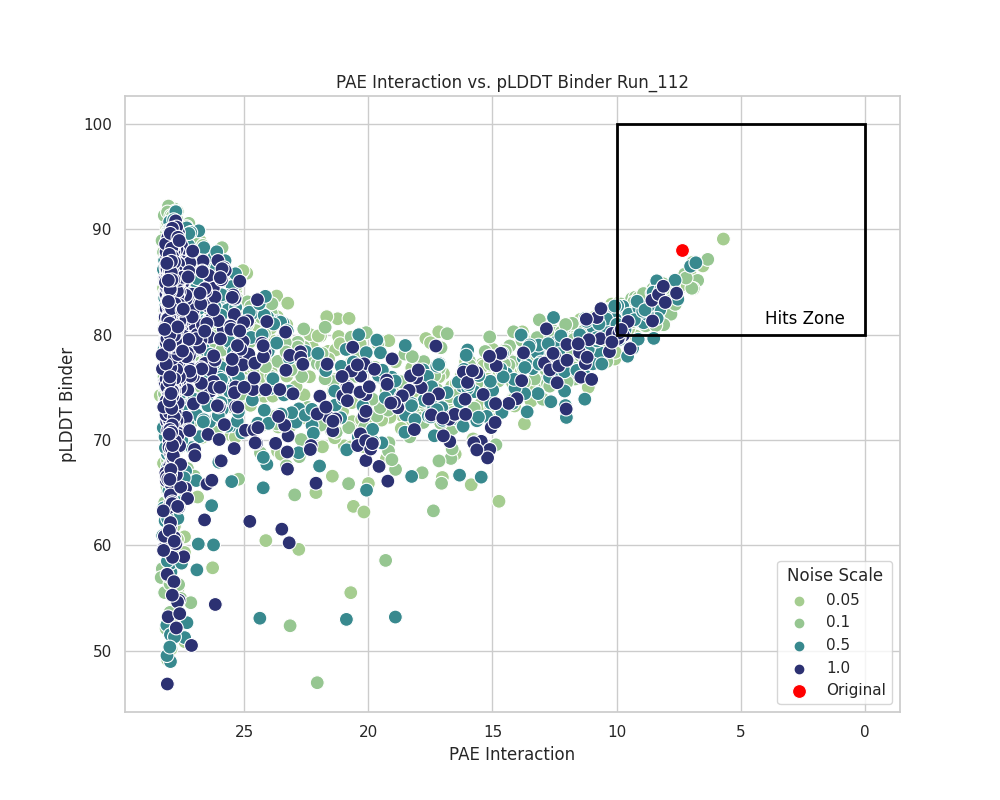
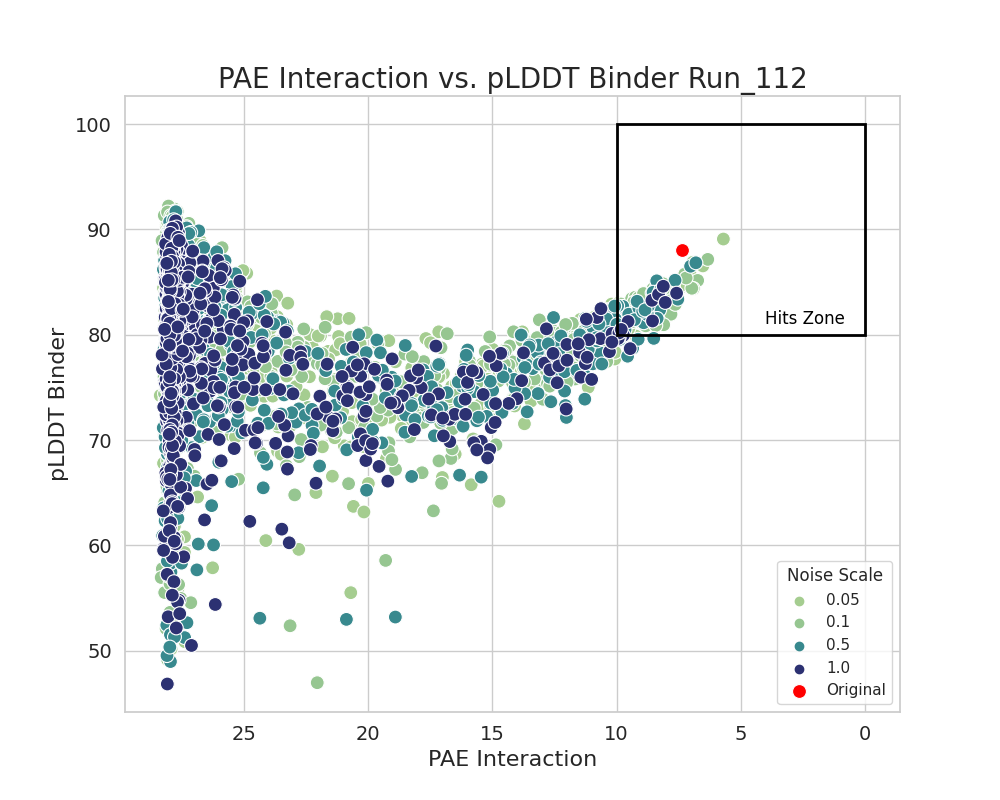
figures

diff --git a/Statistical_Analysis/stat_test_noisescale.py b/Statistical_Analysis/stat_test_noisescale.py
@@ -16,47 +16,47 @@ pae_interaction_ns01=df_filtered['pae_interaction'][(df_filtered['pae_interactio
 pae_interaction_ns05=df_filtered['pae_interaction'][(df_filtered['pae_interaction'] < 10) & (df_filtered['Noise']=='05')]
 pae_interaction_ns1=df_filtered['pae_interaction'][(df_filtered['pae_interaction'] < 10) & (df_filtered['Noise']=='1')]
 
-bonferroni_correction=0.05/6
+threshold=0.05
 
 # T-Test for pae_interaction
 t_stat, p_value = ttest_ind(pae_interaction_ns005, pae_interaction_ns01, equal_var=False)
-print(f'T-Test for pae_interaction between 005 and 01 noise scale: t-stat = {t_stat}, p-value = {p_value}')
-if p_value < bonferroni_correction:
+print(f'T-Test for pae_interaction between 005 and 01 noise scale: t-stat = {t_stat}, p-value = {p_value*6}')
+if p_value < threshold:
     print('########\n')
     print('This difference is significant\n')
     print('#########\n')
 # T-Test for pae_interaction
 t_stat, p_value = ttest_ind(pae_interaction_ns005, pae_interaction_ns05, equal_var=False)
-print(f'T-Test for pae_interaction between 005 and 05 noise scale: t-stat = {t_stat}, p-value = {p_value}')
-if p_value < bonferroni_correction:
+print(f'T-Test for pae_interaction between 005 and 05 noise scale: t-stat = {t_stat}, p-value = {p_value*6}')
+if p_value < threshold:
     print('########\n')
     print('This difference is significant\n')
     print('#########\n')
 # T-Test for pae_interaction
 t_stat, p_value = ttest_ind(pae_interaction_ns005, pae_interaction_ns1, equal_var=False)
-print(f'T-Test for pae_interaction between 005 and 1 noise scale: t-stat = {t_stat}, p-value = {p_value}')
-if p_value < bonferroni_correction:
+print(f'T-Test for pae_interaction between 005 and 1 noise scale: t-stat = {t_stat}, p-value = {p_value*6}')
+if p_value < threshold:
     print('########\n')
     print('This difference is significant\n')
     print('#########\n')
 # T-Test for pae_interaction
 t_stat, p_value = ttest_ind(pae_interaction_ns01, pae_interaction_ns05, equal_var=False)
-print(f'T-Test for pae_interaction between 01 and 05 noise scale: t-stat = {t_stat}, p-value = {p_value}')
-if p_value < bonferroni_correction:
+print(f'T-Test for pae_interaction between 01 and 05 noise scale: t-stat = {t_stat}, p-value = {p_value*6}')
+if p_value < threshold:
     print('########\n')
     print('This difference is significant\n')
     print('#########\n')
 # T-Test for pae_interaction
 t_stat, p_value = ttest_ind(pae_interaction_ns01, pae_interaction_ns1, equal_var=False)
-print(f'T-Test for pae_interaction between 01 and 1 noise scale: t-stat = {t_stat}, p-value = {p_value}')
-if p_value < bonferroni_correction:
+print(f'T-Test for pae_interaction between 01 and 1 noise scale: t-stat = {t_stat}, p-value = {p_value*6}')
+if p_value < threshold:
     print('########\n')
     print('This difference is significant\n')
     print('#########\n')
 # T-Test for pae_interaction
 t_stat, p_value = ttest_ind(pae_interaction_ns1, pae_interaction_ns05, equal_var=False)
-print(f'T-Test for pae_interaction between 05 and 1 noise scale: t-stat = {t_stat}, p-value = {p_value}')
-if p_value < bonferroni_correction:
+print(f'T-Test for pae_interaction between 05 and 1 noise scale: t-stat = {t_stat}, p-value = {p_value*6}')
+if p_value < threshold:
     print('########\n')
     print('This difference is significant\n')
     print('#########\n')
@@ -81,8 +81,8 @@ observed = [[positives_005ns, total_005ns - positives_005ns], [positives_01ns, t
 chi2, p, _, _ = chi2_contingency(observed)
 
 print("Chi-square statistic between 005 and 01 ns:", chi2)
-print("P-value between 005 and 01 ns:", p)
-if p < bonferroni_correction:
+print("P-value between 005 and 01 ns:", p*6)
+if p*6 < threshold:
     print('########\n')
     print('This difference is significant\n')
     print('#########\n')
@@ -93,8 +93,8 @@ observed = [[positives_05ns, total_05ns - positives_05ns], [positives_005ns, tot
 chi2, p, _, _ = chi2_contingency(observed)
 
 print("Chi-square statistic between 005 and 05:", chi2)
-print("P-value between 005 and 05:", p)
-if p < bonferroni_correction:
+print("P-value between 005 and 05:", p*6)
+if p*6 < threshold:
     print('########\n')
     print('This difference is significant\n')
     print('#########\n')
@@ -105,8 +105,8 @@ observed = [[positives_1ns, total_1ns - positives_1ns], [positives_005ns, total_
 chi2, p, _, _ = chi2_contingency(observed)
 
 print("Chi-square statistic between 005 and 1:", chi2)
-print("P-value between 005 and 1:", p)
-if p < bonferroni_correction:
+print("P-value between 005 and 1:", p*6)
+if p*6 < threshold:
     print('########\n')
     print('This difference is significant\n')
     print('#########\n')
@@ -117,8 +117,8 @@ observed = [[positives_1ns, total_1ns - positives_1ns], [positives_01ns, total_0
 chi2, p, _, _ = chi2_contingency(observed)
 
 print("Chi-square statistic between 01 and 1:", chi2)
-print("P-value between 01 and 1:", p)
-if p < bonferroni_correction:
+print("P-value between 01 and 1:", p*6)
+if p*6 < threshold:
     print('########\n')
     print('This difference is significant\n')
     print('#########\n')
@@ -130,8 +130,8 @@ observed = [[positives_1ns, total_1ns - positives_1ns], [positives_05ns, total_0
 chi2, p, _, _ = chi2_contingency(observed)
 
 print("Chi-square statistic between 05 and 1:", chi2)
-print("P-value between 05 and 1:", p)
-if p < bonferroni_correction:
+print("P-value between 05 and 1:", p*6)
+if p*6 < threshold:
     print('########\n')
     print('This difference is significant\n')
     print('#########\n')
@@ -143,8 +143,8 @@ observed = [[positives_05ns, total_05ns - positives_05ns], [positives_01ns, tota
 chi2, p, _, _ = chi2_contingency(observed)
 
 print("Chi-square statistic between 01 and 05:", chi2)
-print("P-value between 01 and 05:", p)
-if p < bonferroni_correction:
+print("P-value between 01 and 05:", p*6)
+if p*6 < threshold:
     print('########\n')
     print('This difference is significant\n')
     print('#########\n')

diff --git a/FIGURES/Noise_Scale_figures.py b/FIGURES/Noise_Scale_figures.py
@@ -78,10 +78,13 @@ df_filtered_112.loc[df_filtered_112['Noise'] == '1', 'Noise'] = 1.0
 plt.figure(figsize=(12,10))
 sns.set_theme(style='whitegrid')
 sns.pointplot(data=df_filtered_112, x='Noise', y='RMSD', hue= 'Noise', palette='crest', s=100,capsize=0.2, ci=95 )
-plt.title('RMSD vs Noise Scale')
-plt.xlabel('Noise Scale (Arb.U)')
-plt.ylabel(f'RMSD ($\AA$)')
+plt.title('RMSD vs Noise Scale', fontsize=20)
+plt.xlabel('Noise Scale (Arb.U)', fontsize=16)
+plt.ylabel(f'RMSD ($\AA$)', fontsize=16)
 plt.legend(title='Noise Scale')
+plt.tick_params(axis='y', labelsize=14)
+plt.tick_params(axis='x', labelsize=14)
+
 plt.savefig('/home/cchacon/Carlos_scripts/FIGURES/Noise_Scale_RMSD.png')
 
 X=[0.05,0.1,0.5,1]
@@ -113,9 +116,12 @@ annotator.configure(
     comparisons_correction="bonferroni")
     
 annotator.apply_and_annotate()
-plt.title('RMSD vs Noise Scale')
-plt.ylabel(f'RMSD ($\AA$)')
-plt.xlabel('Noise Scale (Arb.U)')
+plt.title('RMSD vs Noise Scale', fontsize=20)
+plt.ylabel(f'RMSD ($\AA$)', fontsize=16)
+plt.xlabel('Noise Scale (Arb.U)', fontsize=16)
+plt.tick_params(axis='y', labelsize=14)
+plt.tick_params(axis='x', labelsize=14)
+
 plt.savefig('/home/cchacon/Carlos_scripts/FIGURES/violinplot_rmsd_noisescale.png')
 
 #df_filter hits
@@ -141,9 +147,11 @@ annotator.configure(
     comparisons_correction="bonferroni")
     
 annotator.apply_and_annotate()
-plt.title('Noise Scale vs Pae_interaction')
-plt.xlabel('Noise Scale (Arb.Units)')
-plt.ylabel(f'Pae_interaction ($\AA$)')
+plt.title('Noise Scale vs Pae_interaction', fontsize=20)
+plt.xlabel('Noise Scale (Arb.Units)', fontsize=16)
+plt.ylabel(f'Pae_interaction ($\AA$)', fontsize=16)
+plt.tick_params(axis='y', labelsize=14)
+plt.tick_params(axis='x', labelsize=14)
 
 plt.savefig('/home/cchacon/Carlos_scripts/FIGURES/violinplot_pae_interaction_noise_scale.png')
 
@@ -167,10 +175,11 @@ annotator.configure(
     comparisons_correction="bonferroni")
     
 annotator.apply_and_annotate()
-plt.title('Noise Scale vs pLDDT binder')
-plt.xlabel('Noise Scale (Arb.Units)')
-plt.ylabel(f'pLDDT binder (Arb.Units)')
-
+plt.title('Noise Scale vs pLDDT binder', fontsize=20)
+plt.xlabel('Noise Scale (Arb.Units)',fontsize=16)
+plt.ylabel(f'pLDDT binder (Arb.Units)', fontsize=16)
+plt.tick_params(axis='y', labelsize=14)
+plt.tick_params(axis='x', labelsize=14)
 plt.savefig('/home/cchacon/Carlos_scripts/FIGURES/violinplot_plddt_binder_noise_scale.png')
 
 
@@ -203,9 +212,12 @@ sns.scatterplot(data=df_filtered_112,x='pae_interaction',y='plddt_binder', hue='
 sns.scatterplot(data=df_original, x='pae_interaction', y='plddt_binder', color='red', s=100, edgecolors='k', label='Original')
 
 # Add titles and labels
-plt.title('PAE Interaction vs. pLDDT Binder Run_112')
-plt.xlabel('PAE Interaction')
-plt.ylabel('pLDDT Binder')
+plt.title('PAE Interaction vs. pLDDT Binder Run_112', fontsize=20)
+plt.xlabel('PAE Interaction', fontsize=16)
+plt.ylabel('pLDDT Binder', fontsize=16)
+plt.tick_params(axis='y', labelsize=14)
+plt.tick_params(axis='x', labelsize=14)
+
 
 # Highlight specific region with a square
 rect = patches.Rectangle((0, 80), 10, 20, linewidth=2, edgecolor='black', facecolor='none')
@@ -258,9 +270,11 @@ sns.scatterplot(data=df_filtered_264, x='pae_interaction', y='plddt_binder', hue
 sns.scatterplot(data=df_original, x='pae_interaction', y='plddt_binder', color='red', s=100, edgecolors='k', label='Original')
 
 # Add titles and labels
-plt.title('PAE Interaction vs. pLDDT Binder Run_264')
-plt.xlabel('PAE Interaction')
-plt.ylabel('pLDDT Binder')
+plt.title('PAE Interaction vs. pLDDT Binder Run_264', fontsize=20)
+plt.xlabel('PAE Interaction', fontsize=16)
+plt.ylabel('pLDDT Binder', fontsize=16)
+plt.tick_params(axis='y', labelsize=14)
+plt.tick_params(axis='x', labelsize=14)
 
 # Highlight specific region with a square
 rect = patches.Rectangle((0, 80), 10, 20, linewidth=2, edgecolor='black', facecolor='none')

diff --git a/Statistical_Analysis/stat_test_noisesteps_FR.py b/Statistical_Analysis/stat_test_noisesteps_FR.py
@@ -19,7 +19,7 @@ observed = [[positives_FR, total_FR - positives_FR], [positives_no_FR, total_no_
 chi2, p, _, _ = chi2_contingency(observed)
 
 print("Chi-square statistic:", chi2)
-print("P-value:", p)
+print("P-value:", p*6)
 
 
 # Data
@@ -41,8 +41,6 @@ pae_interaction_ns5=df['pae_interaction'][(df['pae_interaction'] < 15) & (df['ca
 pae_interaction_ns10=df['pae_interaction'][(df['pae_interaction'] < 15) & (df['campaign']=='campaign_run_112_ns10')]
 pae_interaction_ns20=df['pae_interaction'][(df['pae_interaction'] < 15) & (df['campaign']=='campaign_run_112_ns20')]
 pae_interaction_ns30=df['pae_interaction'][(df['pae_interaction'] < 15) & (df['campaign']=='campaign_run_112_ns30')]
-
-bonferroni_correction=0.05/6
 # T-Test for pae_interaction
 t_stat, p_value = ttest_ind(pae_interaction_ns5, pae_interaction_ns10, equal_var=False)
 print(f'T-Test for pae_interaction between 5 and 10 noise steps: t-stat = {t_stat}, p-value = {p_value}')
@@ -82,8 +80,8 @@ observed = [[positives_5ns, total_5ns - positives_5ns], [positives_10ns, total_1
 chi2, p, _, _ = chi2_contingency(observed)
 
 print("Chi-square statistic between 5 and 10 ns:", chi2)
-print("P-value between 5 and 10 ns:", p)
-if p < bonferroni_correction:
+print("P-value between 5 and 10 ns:", p*6)
+if p*6 < 0.05:
     print('########\n')
     print('This difference is significant\n')
     print('#########\n')
@@ -95,8 +93,8 @@ observed = [[positives_20ns, total_20ns - positives_20ns], [positives_5ns, total
 chi2, p, _, _ = chi2_contingency(observed)
 
 print("Chi-square statistic between 5 and 20:", chi2)
-print("P-value between 5 and 20:", p)
-if p < bonferroni_correction:
+print("P-value between 5 and 20:", p*6)
+if p*6 < 0.05:
     print('########\n')
     print('This difference is significant\n')
     print('#########\n')
@@ -107,8 +105,8 @@ observed = [[positives_30ns, total_30ns - positives_30ns], [positives_5ns, total
 chi2, p, _, _ = chi2_contingency(observed)
 
 print("Chi-square statistic between 5 and 30:", chi2)
-print("P-value between 5 and 30:", p)
-if p < bonferroni_correction:
+print("P-value between 5 and 30:", p*6)
+if p*6 < 0.05:
     print('########\n')
     print('This difference is significant\n')
     print('#########\n')
@@ -119,8 +117,8 @@ observed = [[positives_30ns, total_30ns - positives_30ns], [positives_10ns, tota
 chi2, p, _, _ = chi2_contingency(observed)
 
 print("Chi-square statistic between 10 and 30:", chi2)
-print("P-value between 10 and 30:", p)
-if p < bonferroni_correction:
+print("P-value between 10 and 30:", p*6)
+if p*6 < 0.05:
     print('########\n')
     print('This difference is significant\n')
     print('#########\n')
@@ -132,8 +130,8 @@ observed = [[positives_30ns, total_30ns - positives_30ns], [positives_20ns, tota
 chi2, p, _, _ = chi2_contingency(observed)
 
 print("Chi-square statistic between 20 and 30:", chi2)
-print("P-value between 20 and 30:", p)
-if p < bonferroni_correction:
+print("P-value between 20 and 30:", p*6)
+if p*6 < 0.05:
     print('########\n')
     print('This difference is significant\n')
     print('#########\n')
@@ -144,8 +142,8 @@ observed = [[positives_20ns, total_20ns - positives_20ns], [positives_10ns, tota
 chi2, p, _, _ = chi2_contingency(observed)
 
 print("Chi-square statistic between 10 and 20:", chi2)
-print("P-value between 10 and 20:", p)
-if p < bonferroni_correction:
+print("P-value between 10 and 20:", p*6)
+if p*6 < 0.05:
     print('########\n')
     print('This difference is significant\n')
     print('#########\n')

diff --git a/FIGURES/Figure_noise_steps.py b/FIGURES/Figure_noise_steps.py
@@ -74,9 +74,11 @@ sns.pointplot(data=df_filtered, x='Noise', y='RMSD', hue= 'Noise', palette='cres
 
 # Plot the regression line
 # sns.lineplot(x=X, y=y_pred, label=f'$r$={r_value:.2f}', color='red', ax=ax) ##Doesn't work##
-plt.title('RMSD vs Noise Steps')
-plt.xlabel('Noise Steps (#)')
-plt.ylabel(f'RMSD ($\AA$)')
+plt.title('RMSD vs Noise Steps', fontsize=20)
+plt.xlabel('Noise Steps (#)', fontsize=16)
+plt.ylabel(f'RMSD ($\AA$)', fontsize=16)
+plt.tick_params(axis='y', labelsize=14)
+plt.tick_params(axis='x', labelsize=14)
 plt.legend(title='Noise Steps')
 plt.savefig('/home/cchacon/Carlos_scripts/FIGURES/NoiseStepsRMSD.png')
 
@@ -101,9 +103,12 @@ annotator.configure(
     comparisons_correction="bonferroni")
     
 annotator.apply_and_annotate()
-plt.title('RMSD vs Noise Steps')
-plt.ylabel(f'RMSD ($\AA$)')
-plt.xlabel('Noise Steps(#)')
+plt.title('RMSD vs Noise Steps', fontsize=20)
+plt.ylabel(f'RMSD ($\AA$)', fontsize=16)
+plt.xlabel('Noise Steps(#)', fontsize=16)
+plt.tick_params(axis='y', labelsize=14)
+plt.tick_params(axis='x', labelsize=14)
+
 plt.savefig('/home/cchacon/Carlos_scripts/FIGURES/violinplot_rmsd_noisesteps.png')
 
 #df_filter hits
@@ -131,9 +136,12 @@ annotator.configure(
     comparisons_correction="bonferroni")
     
 annotator.apply_and_annotate()
-plt.title('Noise Steps vs Pae_interaction')
-plt.xlabel('Noise Steps (#)')
-plt.ylabel(f'Pae_interaction ($\AA$)')
+plt.title('Noise Steps vs Pae_interaction', fontsize=20)
+plt.xlabel('Noise Steps (#)', fontsize=16)
+plt.ylabel(f'Pae_interaction ($\AA$)', fontsize=16)
+plt.tick_params(axis='y', labelsize=14)
+plt.tick_params(axis='x', labelsize=14)
+
 
 plt.savefig('/home/cchacon/Carlos_scripts/FIGURES/violinplot_pae_interaction_noise_steps.png')
 
@@ -159,9 +167,12 @@ annotator.configure(
     comparisons_correction="bonferroni")
     
 annotator.apply_and_annotate()
-plt.title('Noise Steps vs Pae_interaction')
-plt.xlabel('Noise Steps (#)')
-plt.ylabel(f'pLDDT binder (Arb.Units)')
+plt.title('Noise Steps vs Pae_interaction', fontsize=20)
+plt.xlabel('Noise Steps (#)', fontsize=16)
+plt.ylabel(f'pLDDT binder (Arb.Units)', fontsize=16)
+plt.tick_params(axis='y', labelsize=14)
+plt.tick_params(axis='x', labelsize=14)
+
 
 plt.savefig('/home/cchacon/Carlos_scripts/FIGURES/violinplot_plddt_binder_noise_steps.png')
 
@@ -195,9 +206,12 @@ sns.scatterplot(data=df_filtered, x='plddt_binder', y='pae_interaction', hue='No
 sns.scatterplot(data=df_original, x='plddt_binder', y='pae_interaction', color='red', s=100, label='Original')
 
 # Add titles and labels
-plt.title('PAE Interaction vs. pLDDT Binder run_264')
-plt.xlabel('PAE Interaction')
-plt.ylabel('pLDDT Binder')
+plt.title('PAE Interaction vs. pLDDT Binder run_264', fontsize=20)
+plt.xlabel('PAE Interaction', fontsize=16)
+plt.ylabel('pLDDT Binder', fontsize=16)
+plt.tick_params(axis='y', labelsize=14)
+plt.tick_params(axis='x', labelsize=14)
+
 
 # Highlight specific region with a square
 rect = patches.Rectangle((0, 80), 10, 20, linewidth=2, edgecolor='black', facecolor='none')
